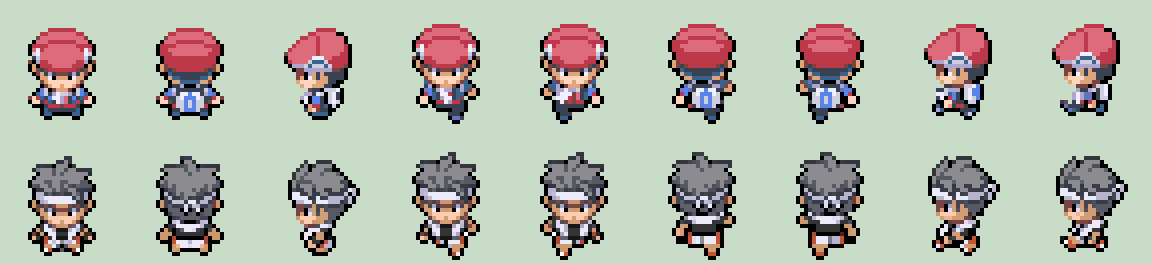
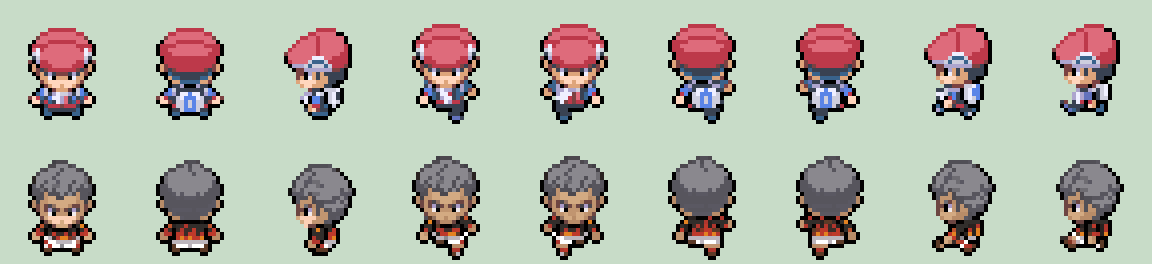
Redo Kabu outfit (lf_kabu_m) from the game sprite reference
Front/back/field remade with the in-game Kabu as the Edit image reference (flame
long-sleeve top, white shorts, red/white socks, no headband). Old version kept as _v1.

diff --git a/assets_src/leg_fit/ow/METHOD.md b/assets_src/leg_fit/ow/METHOD.md
@@ -44,3 +44,10 @@ towel, black athletic shirt, white shorts with red trim); Flannery front used LE
 background removal treats >=250 in all channels as background (one result came on 255,254,255).
 Picks: Flannery front c0 (c1 face less like Dawn), back c2 (c0 hair touched the top edge, c1 hair
 turned orange), field transfer v2 (v1 hair so big it reached row 0).
+
+Kabu redo (2026-11-21): the first Kabu (headband, towel, black T-shirt) did not look like the game's
+Kabu; kept as raw/lf_kabu_m_*_v1 and ow/raw/lf_kabu_m_*_v1. Redone with the game sprite
+(ref/ref_kabu.png, from branch claude/project-thread-wlqncg) as the Edit image reference: gray hair, no
+headband, black long-sleeve top with red-orange flames, white shorts with red marks, red and white long
+socks, brown shoes. Front pick c1 (c0 made him taller, hair at row 1, and changed the face); back and
+field first results.
